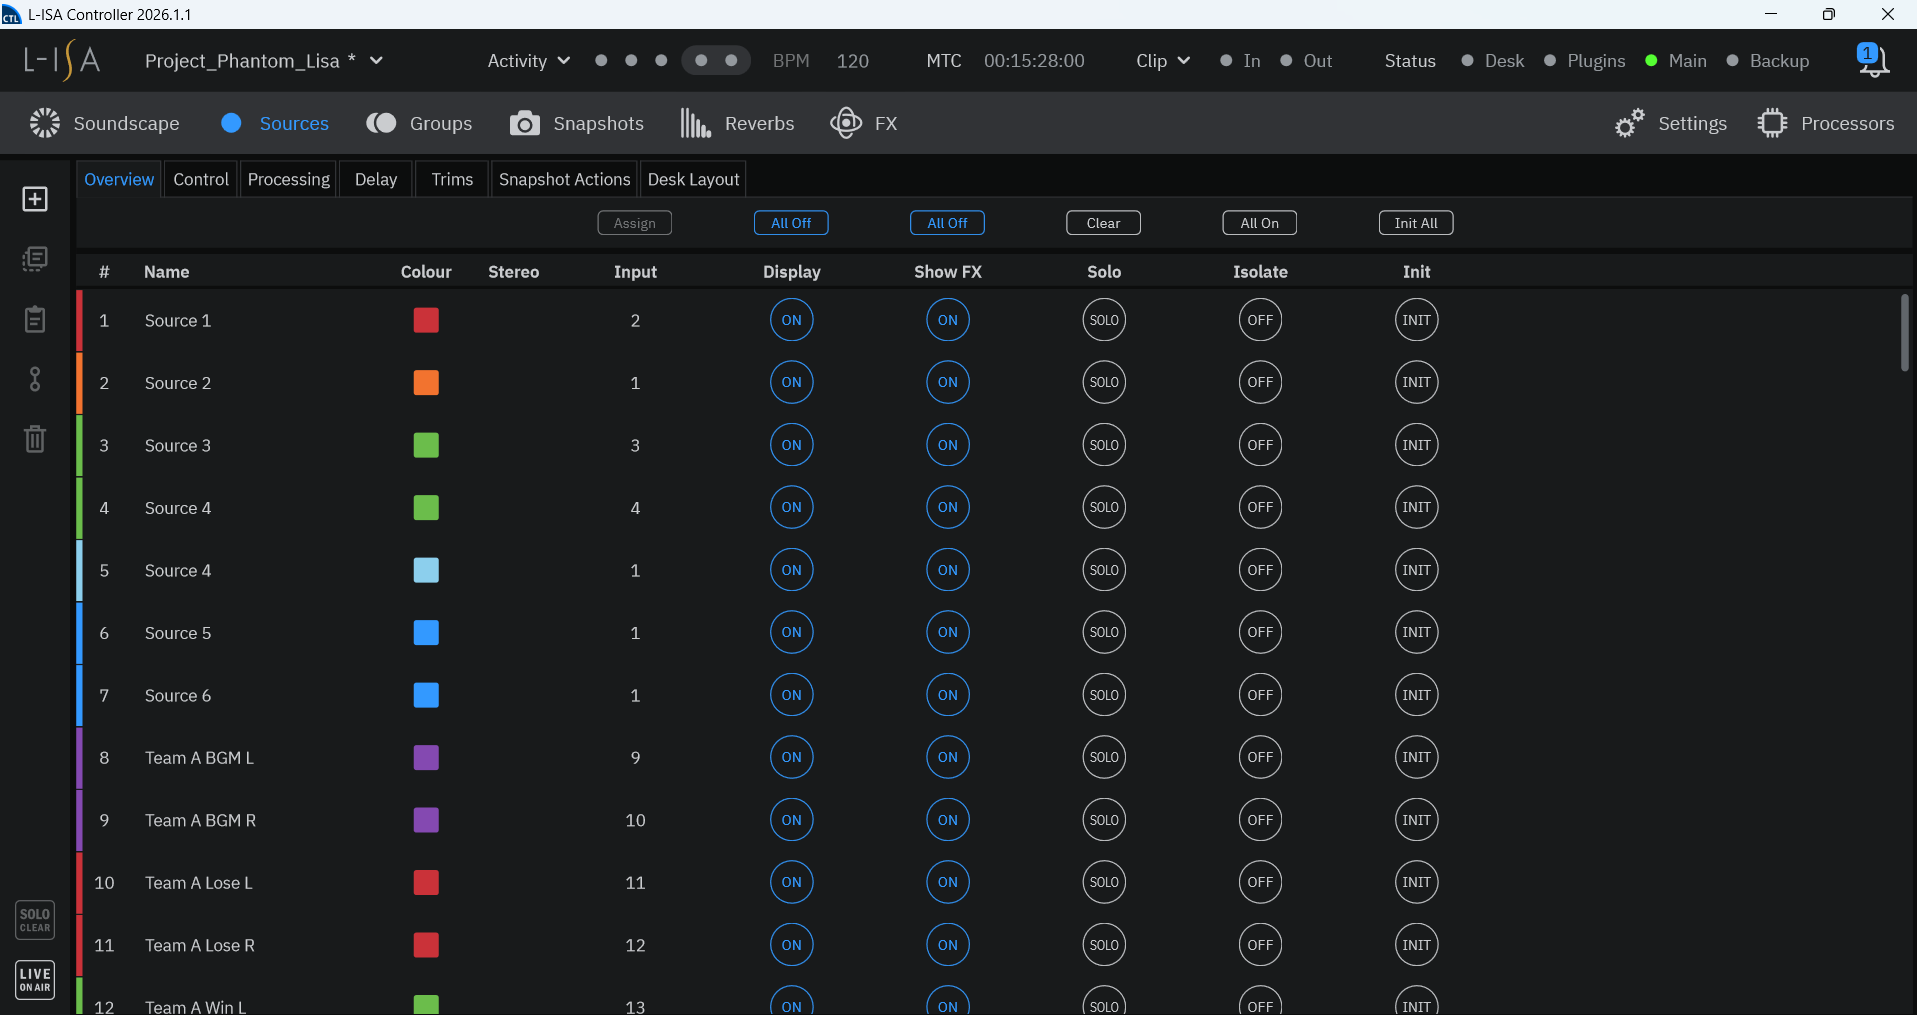
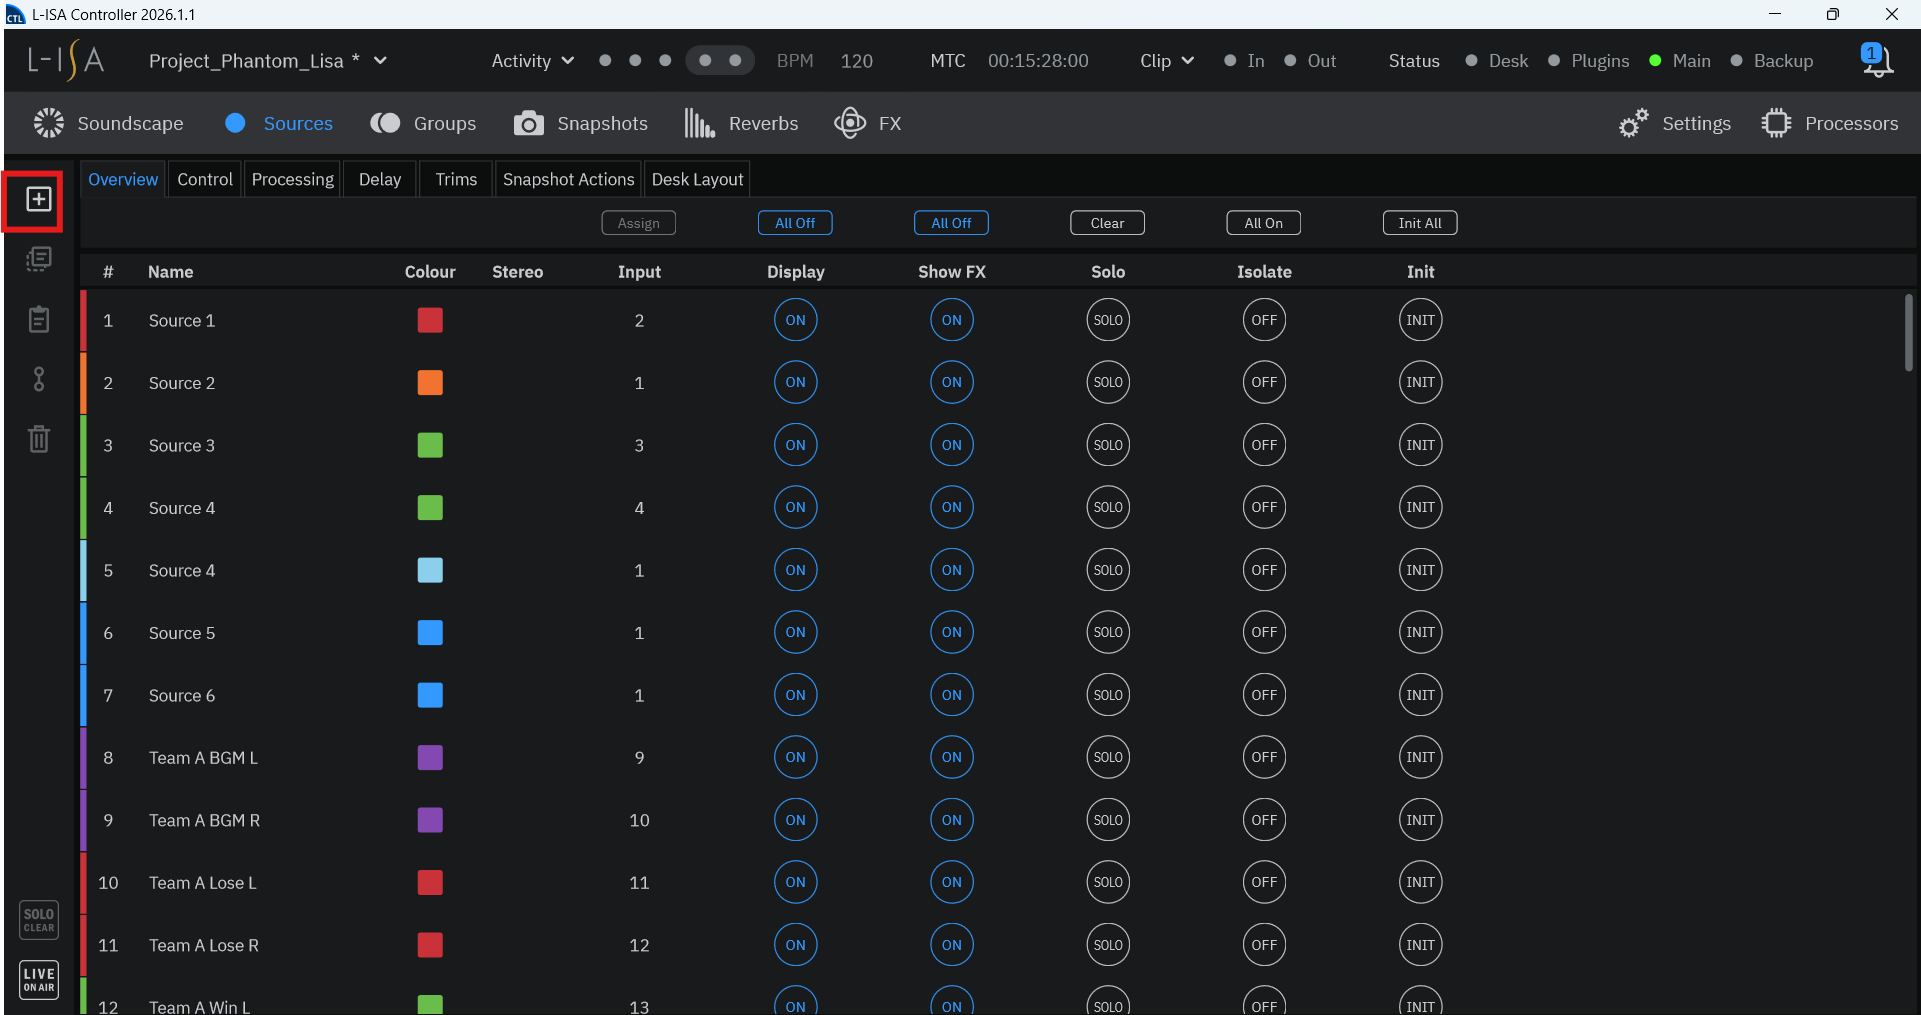
updated l-isa README.md file

diff --git a/MVP/L-ISA/README.md b/MVP/L-ISA/README.md
@@ -1,47 +1,86 @@
-# OSC L-ISA Integration Guide
+# OSC & L-ISA Integration Guide
 
-## Overview & Purpose
+## Overview
+This software controls 3D surround sound in a room. It connects **REAPER** to **L-ISA** using a virtual MIDI setup (`loopMIDI`), allowing sound positions, movements, and snapshots to play in perfect sync with your audio.
 
-Controlled by REAPER during soundtrack playback, this software orchestrates room surround sound using snapshots and timecode synchronization over the MIDI Loop protocol.
 ---
 
-## L-ISA Setup & Configuration
+## Setup & Configuration
 
-### 1. Installation
+### Step 1: Install Required Software
+* Download and install **[L-ISA Studio](https://www.l-acoustics.com/products/l-isa-studio/?pk_vid=86afed12eb3149cc16861759426ba57c)** and **[loopMIDI](https://www.tobias-erichsen.de/software/loopmidi.html)**.
+* 📹 **[Watch the L-ISA Installation & Setup Video Guide](https://youtu.be/eVM-51u1GbI?si=CHgpuxDxQGSGWfBy)**
 
-* Download and install **[L-ISA](https://www.l-acoustics.com/products/l-isa-studio/?pk_vid=86afed12eb3149cc16861759426ba57c)**, and **[loopMIDI](https://www.tobias-erichsen.de/software/loopmidi.html)**.
-* 📹 **[L-ISA Video Installation & Setup Guide](https://youtu.be/eVM-51u1GbI?si=CHgpuxDxQGSGWfBy)**
+---
 
-### 2. L-ISA Set Up Configuration
-1. Open **L-ISA Controller** and go to 'Processor', and click 'connect' and 'auto-connect'. <br>
+### Step 2: Set Up L-ISA Controller & Processor
+1. Open **L-ISA Controller**, go to the **Processor** tab, and click **Connect** $\rightarrow$ **Auto-Connect**. <br>
 ![Alt Text](Images/L_ISA_Controller_Config1.png)
-2. Once done, open **L-ISA Processor** and proceed do the configuration below. <br>
+
+2. Open **L-ISA Processor** and apply the settings shown below. <br>
 ![Alt Text](Images/L-ISA_config1.png)
 
-### 3. Reaper loopMIDI Configuration
-3. 
 ---
 
-### Finding Your Laptop's IP Address (Windows)
+### Step 3: Create a Virtual MIDI Port in loopMIDI
+1. Open **loopMIDI**.
+2. Type a name for your new port (for example: `L-ISA MIDI`).
+3. Click the **"+"** button to add the port.
 
-1. Open **Command Prompt** (`cmd`). <br>
-![Alt Text](../../POC/Multiplay/Images&MultiPlay/ipconfig.png)
-2. Type `ipconfig` and press **Enter**. <br>
-3. Locate your active network adapter and note the **IPv4 Address**. <br>
-(../../POC/Multiplay/Images&MultiPlay/cmd.png)
+![alt text](Images/loopmidi.png)
 
 ---
 
-## Network Architecture
+### Step 4: Configure REAPER (Timecode & MIDI Output)
+1. Open **REAPER**. From the top menu, click **Insert** $\rightarrow$ **SMPTE LTC/MTC Timecode Generator**. <br>
+![Alt Text](Images/add_timecode.png)
 
-```mermaid
-graph LR
-    A[REAPER DAW] --> B[Timecode] --> |loopMIDI| B[L-ISA Snapshots]
+2. Press **Ctrl + P** to open Preferences. Under the **MIDI Devices** tab, make sure your MIDI setup matches your system. <br>
+![alt text](Images/midi_config1.png)
 
-```
+3. Under **MIDI Outputs**, double-click the new port you made in Step 3 (e.g., `L-ISA MIDI`). Enable both **Output to device** and **Send clock to device**. <br>
+![alt text](Images/midi_config3.png)  
+Click **OK** when finished.
 
-> ⚠ **IMPORTANT:** Ensure the IP address and port configured in your Python scripts match the REAPER OSC network settings exactly.
+4. On your timecode track in REAPER, click the **MIDI Output** button and assign the output routing. <br>
+![alt text](Images/midi_config4.png)
 
 ---
 
-## L-ISA Snapshots
+### Step 5: Connect Audio & MIDI Routing
+
+#### Part A: Setting Up L-ISA Controller
+1. In **L-ISA Controller**, go to **Sources** $\rightarrow$ **Overview** and add your audio sources. <br>
+![alt text](Images/L_ISA_Controller_Config3.png)
+
+2. Double-click any source to select which audio channel it will receive sound from, then click **Save**. <br>
+![alt text](Images/L_ISA_Controller_config4.png)
+
+3. Go to **Sources** $\rightarrow$ **Control**. Under the **Control** column, check the boxes for the parameters you want to control with Snapshots. <br>
+![alt text](Images/L_ISA_Controller_config8.png)
+> 💡 *Note: Snapshots are saved "pictures" of where your sounds are placed in the room.*
+
+4. Go to **MIDI** settings in L-ISA, turn MIDI on, and choose the loopMIDI port name you created earlier. <br>
+![alt text](Images/L_ISA_Controller_config9.png)
+
+> ⚠ **IMPORTANT:** The port name in REAPER and L-ISA must match **exactly**, including uppercase and lowercase letters (for example, `L-ISA MIDI` is not the same as `l-isa midi`).
+
+#### Part B: Routing Tracks in REAPER
+1. In REAPER, click the **`Route/MIDI Output`** button on the track you want to send.
+2. Uncheck **`Send to Master Track / FX`**.
+3. Choose the output destination that matches your L-ISA setup. <br>
+![alt text](Images/routing_r.png)
+
+---
+
+## Step 6: Create & Use L-ISA Snapshots
+1. Drag your audio sources around the screen to set where the sound should come from in the room. <br>
+![alt text](Images/L_ISA_Controller_Snapshot1.png)
+
+2. Use **`Fx Assign`** to create automated moving sound effects across the room. <br>
+![alt text](Images/L_ISA_Controller_Snapshot2.png)
+
+3. Click the **"+"** button to save your current setup as a **Snapshot**. <br>
+![alt text](Images/L_ISA_Controller_Snapshot3.png)
+
+📹 **[Watch the L-ISA Snapshot Video Tutorial](https://youtu.be/_HgON7jDlwg?si=vyLm0HiD5Gl2JnPS)** for a complete step-by-step video guide.
